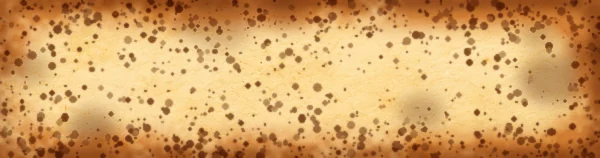
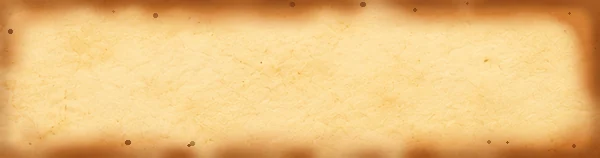
Infernal nameplates: cleaner parchment, specks only at the very edge

diff --git a/index.html b/index.html
@@ -16,9 +16,9 @@
   <meta property="og:image" content="share.jpg">
   <meta name="twitter:card" content="summary_large_image">
   <link rel="preload" href="share.jpg" as="image" fetchpriority="low">
-  <link rel="stylesheet" href="./gw.css?v=199">
-  <link rel="stylesheet" href="./oh.css?v=199">
-  <link rel="stylesheet" href="./bv-more.css?v=199">
+  <link rel="stylesheet" href="./gw.css?v=200">
+  <link rel="stylesheet" href="./oh.css?v=200">
+  <link rel="stylesheet" href="./bv-more.css?v=200">
 </head>
 <body>
 <!-- The Infernal suits (Look & feel): drawn with <use href="#s-flame"> etc. -->
@@ -111,7 +111,7 @@
 
 <!-- SPLASH -->
 <div id="splash" role="button" tabindex="0" aria-label="Click to start">
-  <img src="logo-ohhell.webp?v=199" alt="Oh Hell! Extended" class="splash-title">
+  <img src="logo-ohhell.webp?v=200" alt="Oh Hell! Extended" class="splash-title">
   <div class="logo-subtitle splash-subtitle">Oh Hell! with a trick up its sleeve</div>
   <img src="bugvictim.svg" alt="BugVictim" class="splash-logo">
   <div class="splash-credit">© BugVictim 2026</div>
@@ -174,7 +174,7 @@
 
     <div class="start-panel-header">
       <div class="start-header">
-        <img src="logo-ohhell.webp?v=199" alt="Oh Hell! Extended" class="start-title-img">
+        <img src="logo-ohhell.webp?v=200" alt="Oh Hell! Extended" class="start-title-img">
       </div>
 
       <div class="start-logo-row start-credit-line">© BugVictim 2026</div>
@@ -468,12 +468,12 @@
   </div>
 </div>
 
-  <script src="./oh-core.js?v=199"></script>
-  <script src="./oh-tutorial.js?v=199"></script>
-  <script src="./oh-ai.js?v=199"></script>
-  <script src="./bv-more.js?v=199"></script>
-  <script src="./oh-souls.js?v=199"></script>
-  <script src="./oh-app.js?v=199"></script>
+  <script src="./oh-core.js?v=200"></script>
+  <script src="./oh-tutorial.js?v=200"></script>
+  <script src="./oh-ai.js?v=200"></script>
+  <script src="./bv-more.js?v=200"></script>
+  <script src="./oh-souls.js?v=200"></script>
+  <script src="./oh-app.js?v=200"></script>
   <script>
     BVMore.init({ key: "oh-hell-extended", title: "Oh Hell! Extended", others: ["drakeharbour", "german-whist", "artifact"],
       shareText: "Bid your tricks, then win exactly that many. Play Oh Hell! Extended.",

diff --git a/oh.css b/oh.css
@@ -1800,7 +1800,7 @@ body.style-infernal .icon-btn { color: #e8c88a !important; }
 body.style-infernal .seat-info .name-label {
   font-family: "Cinzel", Georgia, serif; font-style: normal; font-weight: 700; letter-spacing: 0.02em;
   color: var(--inf-ink); -webkit-text-stroke: 0; text-shadow: none;
-  background: url("img/parchment-plate.webp") center / 100% 100% no-repeat, #e3c48b;
+  background: url("img/parchment-plate.webp?v=2") center / 100% 100% no-repeat, #e3c48b;
   border: 0; border-radius: 3px; padding: 0.12em 0.85em 0.14em;
   box-shadow: 0 2px 5px rgba(0, 0, 0, 0.6), inset 0 0 6px rgba(110, 60, 20, 0.35);
 }
